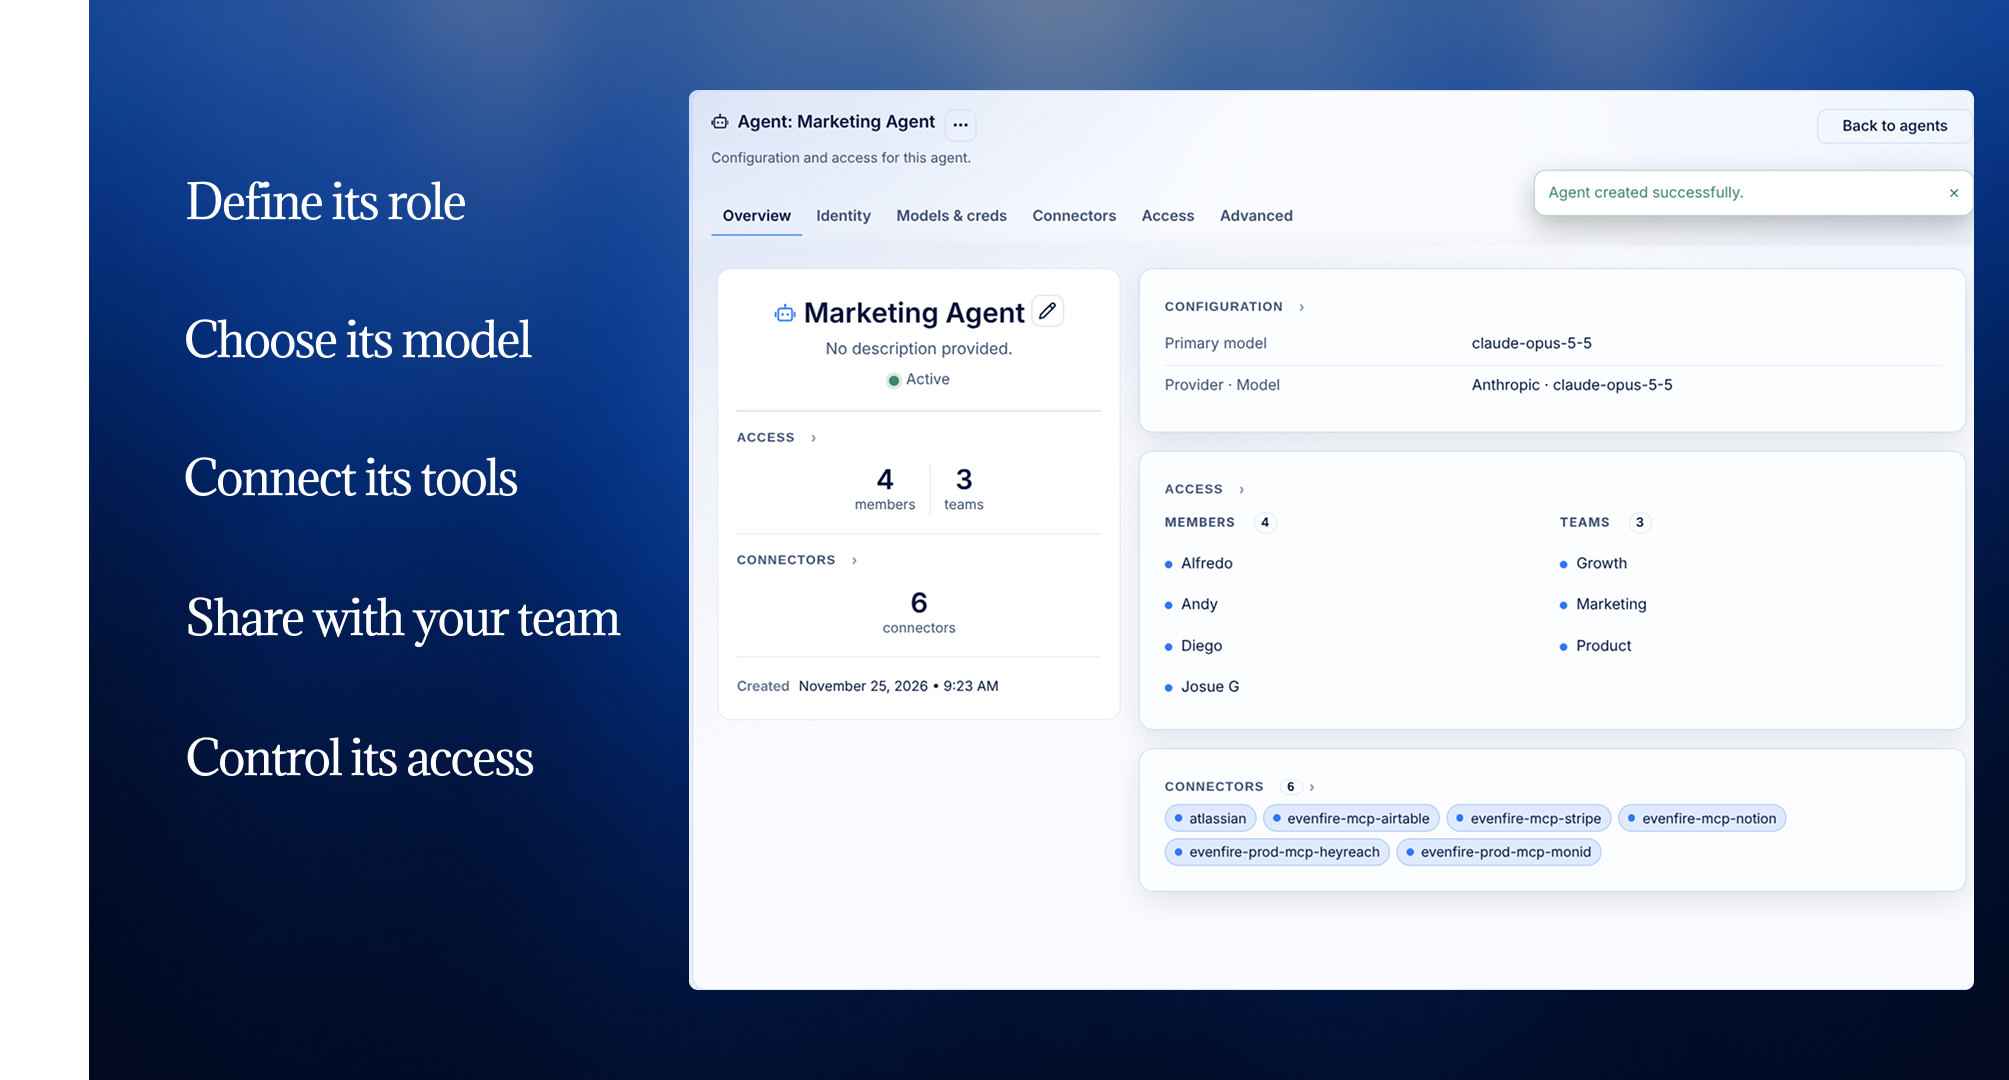
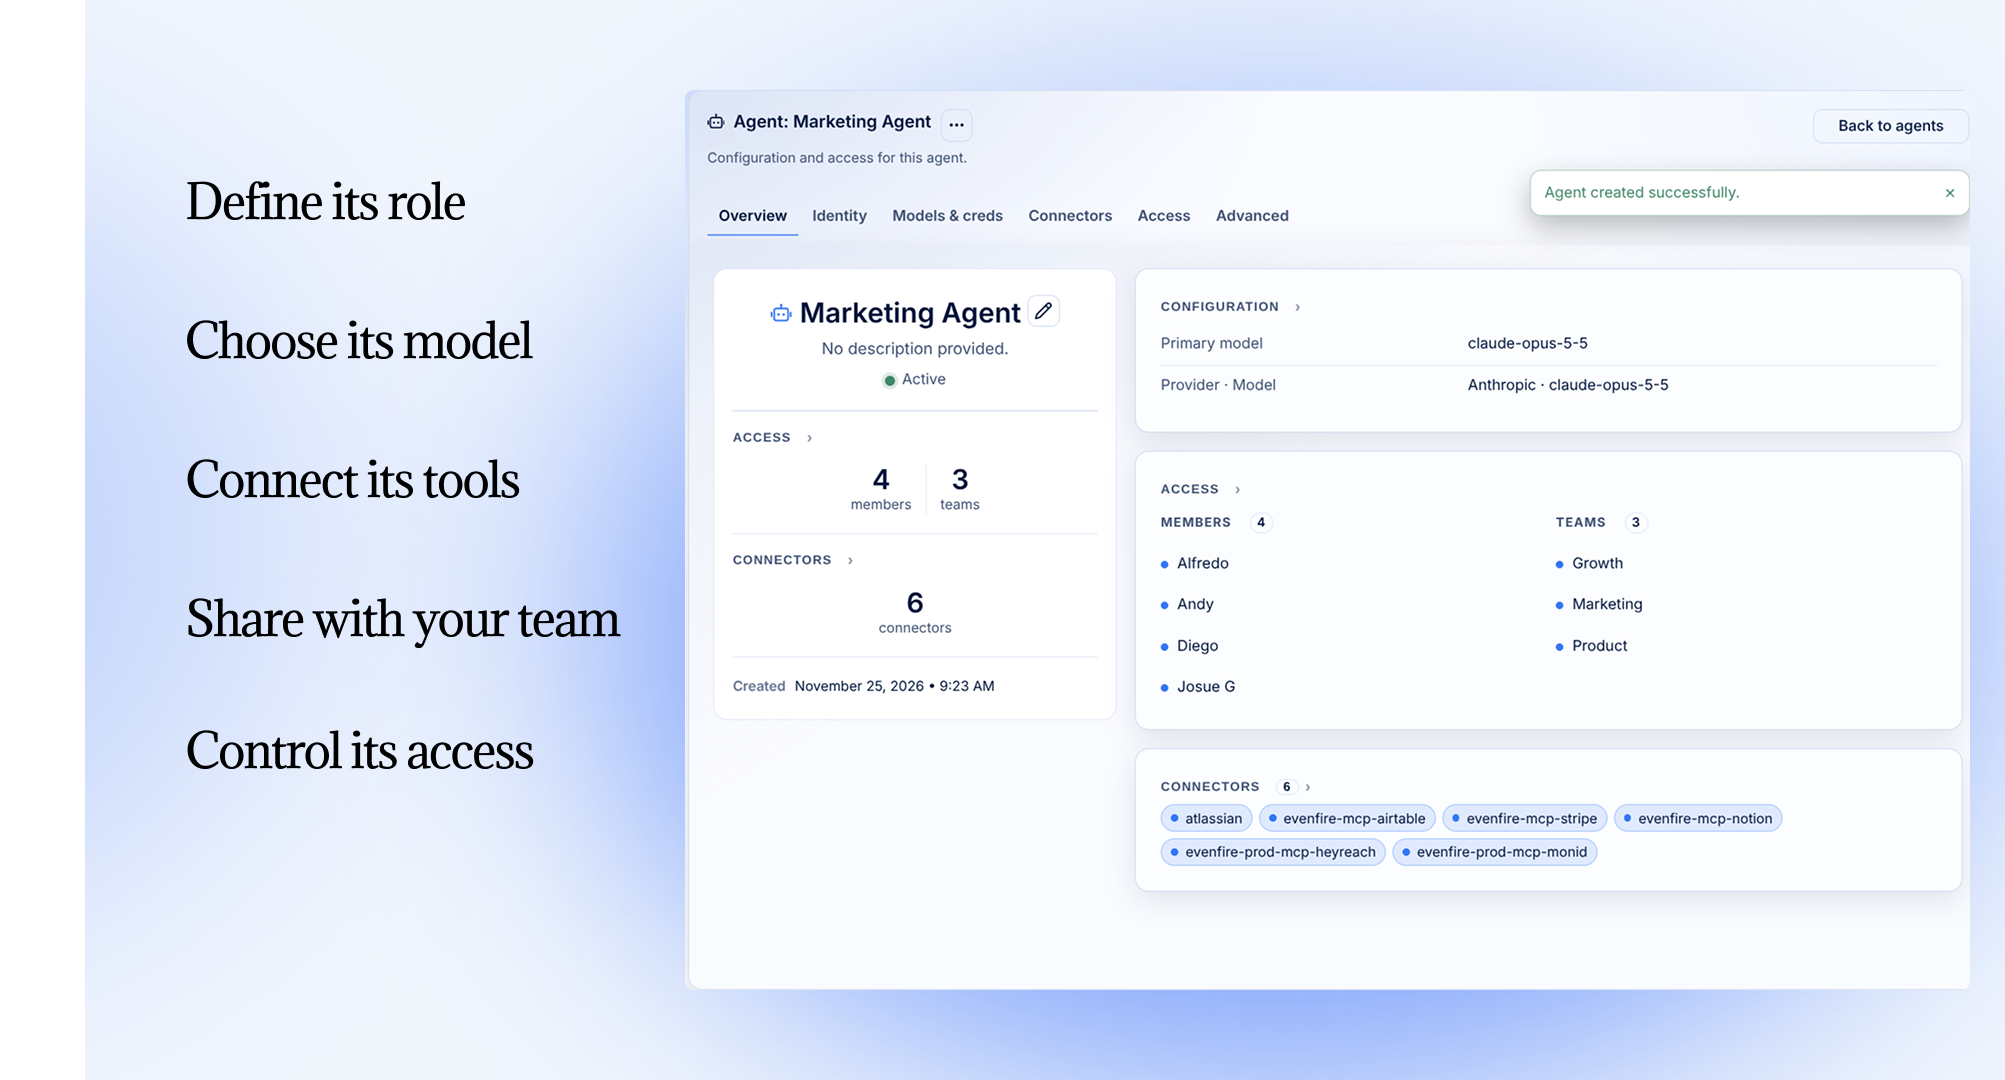
docs: use light-mode README showcase images

diff --git a/docs/assets/readme/README.md b/docs/assets/readme/README.md
@@ -1,8 +1,9 @@
-# README showcase images
+# README showcase images — light mode
 
 The root [README](../../../README.md#see-evenfire-in-action) uses the six branded
-PNG exports in this folder, in the order below. Each image has its own section
-heading, explanatory copy and descriptive alt text.
+light-mode PNG exports in this folder, in the order below. Each image has its own
+section heading, explanatory copy and descriptive alt text. The dark-frame
+versions remain on the separate `docs/readme-showcase` branch.
 
 | File | Image copy | Screenshot |
 | --- | --- | --- |
@@ -18,7 +19,7 @@ heading, explanatory copy and descriptive alt text.
 - Keep these numbered filenames when replacing exports so the README links
   continue to work. Preserve the PNG format; use a matching extension and update
   the README if switching formats.
-- Keep the shared blue frame and readable interface details. Match the existing
+- Keep the light blue-and-white frame and readable interface details. Match the existing
   canvas proportions and avoid stretching screenshots.
 - Update alt text and surrounding copy if the depicted workflow changes.
 - Use demonstration data and remove private emails, credentials and private URLs
